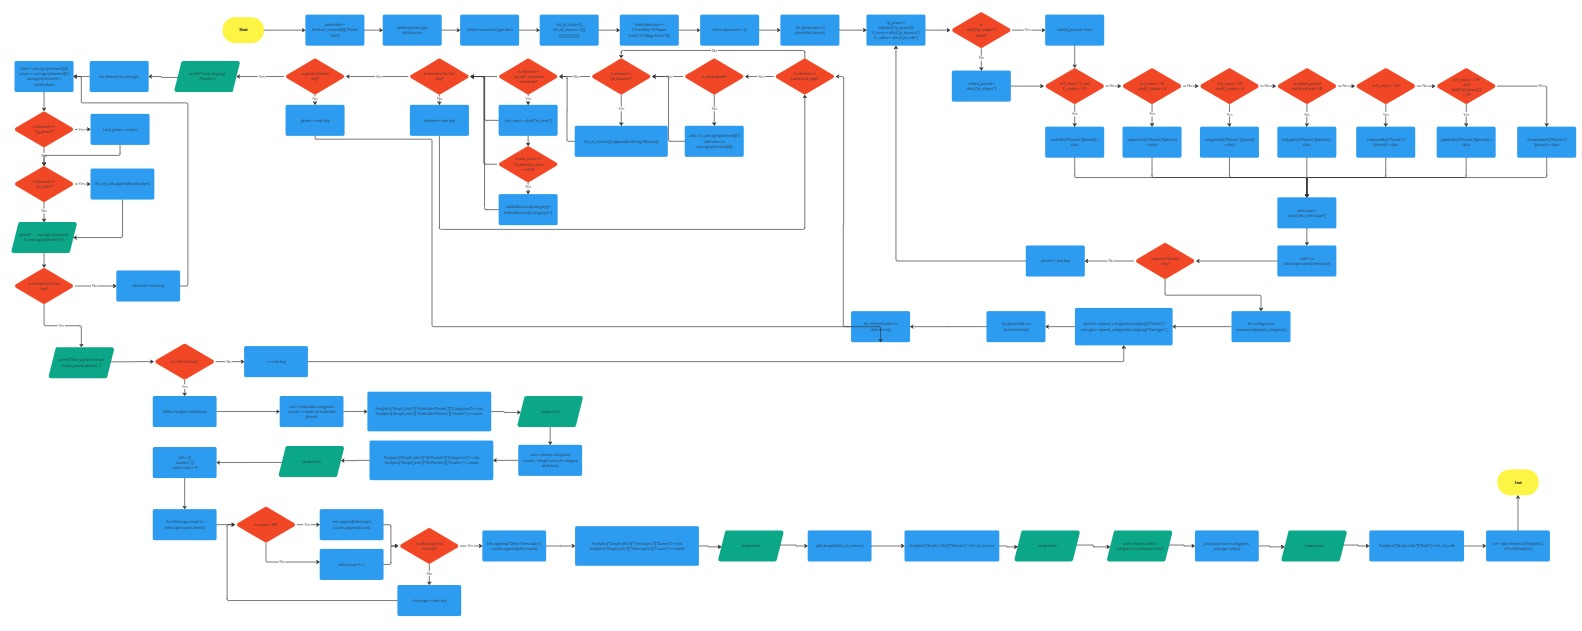
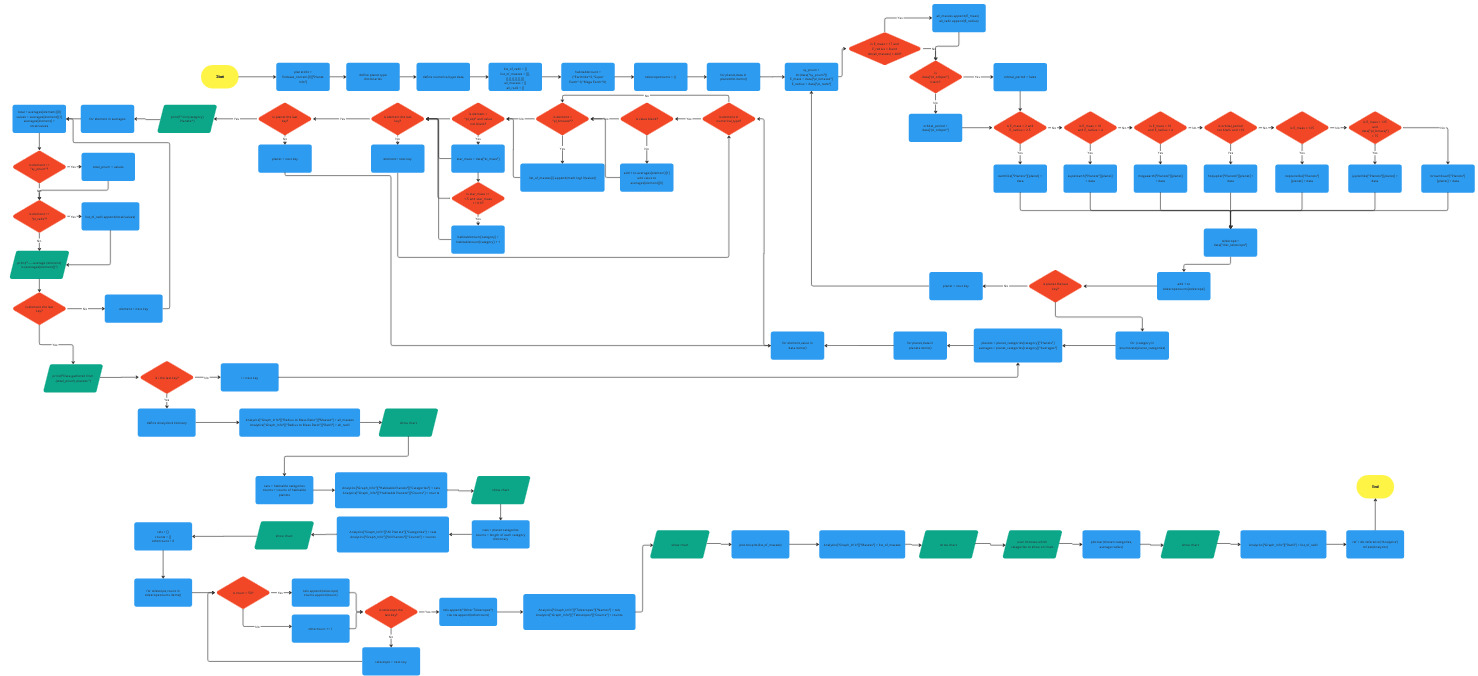
Add files via upload

Changed region(s): [[0.0, 0.0, 1.0, 1.0], [0.249, 0.4818, 0.2801, 0.5119]]

diff --git a/Project/index.html b/Project/index.html
@@ -89,11 +89,14 @@
     <h1>Telescope Chart</h1>
     <h3>This Doughnut graph shows the proportion of the exoplanets in the dataset that were collected by each telescope.</h3>
     <canvas id="TelescopeChart" style="width:100%;max-width:500px"></canvas><br>
+    <h1>Terrestrial Planet Radius to Mass Ratio Chart</h1>
+    <h3>This Scatter plot shows the ratio of mass to radius for terrestrial exoplanets (Earthlike, Super Earth, Mega Earth). A very clear trend is shown indicating that there is a close link between the mass and radius of an exoplanet</h3>
+    <canvas id="TerrestrialRatioChart" style="width:100%;max-width:1000px"></canvas><br>
 
     <!--Information Search-->
     <h1>Analytical Information Search</h1>
     <img src="https://static.vecteezy.com/system/resources/previews/033/170/280/non_2x/magnifier-and-globe-icon-search-for-a-place-on-a-map-or-on-the-globe-icon-the-icon-of-the-magnifying-glass-and-planet-earth-vector.jpg" width="85" height="85"><br>
-    <h3>This section is to further educate on the specifics of these planet types. Each question configuration will provide an accurate answer based off the data in the database.</h3>
+    <h3>This section is to further educate on the specifics of these planet types. Each question configuration will provide an accurate answer based off the data in the database. Average distance, mass and year length of an exoplanet type are all vital information for any astronomer searching for new exoplanets.</h3>
     <h3>Once the desired configuration is made click the Submit Question button to get the answer.</h3>
     <span>How far away is the average </span>
     <select id="distance">
@@ -164,6 +167,8 @@
             let chart_radii = chartinfo["Radii"];
             let telescopes = chartinfo["Telescopes"];
             let planetcounts = chartinfo["All Planets"]["Counts"];
+            let terrestrialradii = chartinfo["Radius to Mass Ratio"]["Radii"];
+            let terrestrialmasses = chartinfo["Radius to Mass Ratio"]["Masses"];
  
             // For Refresh Functionality
             let planet_categories = [];
@@ -206,6 +211,7 @@
             };
             CHART_T(telescopes);
             CHART_P(shownplanetcounts,planet_categories,planet_colours);
+            CHART_MR(terrestrialmasses,terrestrialradii);
         }};
  
     function CHART_R(data,cols) {
@@ -225,6 +231,9 @@
                     }]
                 },
                 options: {
+                    legend: {
+                        display: false
+                    },
                     responsive: true,
                     title: {
                     display: true,
@@ -264,6 +273,33 @@
             }
         });
     }
+
+    function CHART_MR(masses,radii) {
+        let data_amt = masses.length;
+        let data = [];     
+        for (let index = 0;index < data_amt;++index){
+            data.push({x:masses[index],y:radii[index]});
+            ++ index;
+        };
+        
+        new Chart("TerrestrialRatioChart", {
+            type: "scatter",
+            data: {
+                datasets: [{
+                data: data,
+                }]
+            },
+            options: {
+                legend: {
+                        display: false
+                },
+                title: {
+                display: true,
+                text: "Terrestrial Exoplanet Radius to Mass Ratio"
+                }
+            }
+        });
+    }
  
     function CHART_P(data,cats,cols) {
         let Chart_Pcanvas = document.createElement("canvas");
@@ -282,19 +318,14 @@
                     }]
                 },
                 options: {
-                    plugins: {
-                    legend: {
-                            display: false
-                        },
                     title: {
                         display: true,
                         text: "Distribution of Planet Types in Dataset"
-                        },
-                    responsive: true,
                     },
-                    tootltips: {
-                        enabled: false
-                    }
+                    responsive: true,
+                    legend: {
+                        display: false
+                    },
                 }
             })}
         else{
@@ -377,6 +408,11 @@
     canvas#TelescopeChart {
     background-color: rgb(255, 255, 255,0.7 );
     }
+    canvas#TerrestrialRatioChart {
+    background-color: rgb(255, 255, 255,0.7 );
+    }
+    
+
     marquee {
     font-size: 100px;
     }

diff --git a/Project/form.html b/Project/form.html
@@ -219,10 +219,8 @@
         },
         options: {
                 legend: {
-                labels: {
-                    fontColor: "white"
-                    }
-                },
+                            display: false
+                    },
                 responsive: true,
                 title: {
                 display: true,

diff --git a/Project/analytics.py b/Project/analytics.py
@@ -12,7 +12,7 @@ def orderplanets(lst,element):
     return ordered_list
 
 #___ Initialising Firebase ___#
-cred = credentials.Certificate("exoplanet-dataset-firebase-adminsdk-shser-369d5308fe.json")
+cred = credentials.Certificate("exoplanet-dataset-firebase-adminsdk-shser-43e84d2fa9.json")
 firebase_admin.initialize_app(cred, {'databaseURL':'https://exoplanet-dataset-default-rtdb.europe-west1.firebasedatabase.app/'})
 ref = db.reference('/')
 firebase_content = ref.get('/users/Planet Info', None)
@@ -30,7 +30,10 @@ outlier_planets = {"Planets":{},"Averages":{}}
 planet_categories = {"Earthlike":earthlike,"Super Earth":superearth,"Mega Earth":megaearth,"Neptunelike":neptunelike,"Jupiterlike":jupiterlike,"Hot Jupiter":hotjupiter,"Brown Dwarf":browndwarf}
 numerical_type = ["sy_snum","sy_pnum","pl_orbsmax","pl_orbper","pl_rade","pl_radj","pl_bmasse","pl_bmassj","pl_dens","pl_orbeccen","pl_insol","pl_eqt","pl_orbincl","ttv_flag","pl_imppar","pl_orblper","st_teff","st_mass","st_lum","st_logg","ra","dec","sy_dist","sy_vmag","sy_kmag","sy_gaiamag","sy_gaiamagerr1","sy_gaiamagerr2"]
 list_of_radii = []
+all_radii = []
 list_of_masses = [[],[],[],[],[],[],[]]
+all_masses = []
+
 habitablecount = {"Earthlike":0,"Super Earth":0,"Mega Earth":0}
 telescopecounts = {}
 
@@ -40,6 +43,9 @@ for planet,data in planetdict.items():
     sy_pnum = int(data["sy_pnum"])
     E_mass = data["pl_bmasse"]
     E_radius = data["pl_rade"]
+    if E_mass < 17 and E_radius < 8 and len(all_masses) < 400:
+        all_masses.append(E_mass)
+        all_radii.append(E_radius)
     if data.get("pl_orbper"): orbital_period = data["pl_orbper"]
     else: orbital_period = False
     if E_mass < 2 and E_radius < 2.5: earthlike["Planets"][planet] = data
@@ -96,7 +102,17 @@ for i,category in enumerate(planet_categories):
 
 Analytics = {"Graph_Info":{},"Averages":{"Earthlike":earthlike["Averages"],"Super Earth":superearth["Averages"],"Mega Earth":megaearth["Averages"],"Neptunelike":neptunelike["Averages"],"Jupiterlike":jupiterlike["Averages"],"Hot Jupiter":hotjupiter["Averages"],"Brown Dwarf":browndwarf["Averages"]}} #Creating Analytics Dict
 
-#___ Pie Chart of Habitable Planets or Total Planets___#
+#__ Scatter Plot of Radius to Mass __#
+plot.scatter(all_masses,all_radii)
+plot.title('Terrestrial Exoplanet Radius to Mass Ratio')
+plot.xlabel('Planet Mass (Earth masses)')
+plot.ylabel('Planet Radius (Earth Radii)')
+Analytics["Graph_Info"]["Radius to Mass Ratio"] = {}
+Analytics["Graph_Info"]["Radius to Mass Ratio"]["Masses"] = all_masses
+Analytics["Graph_Info"]["Radius to Mass Ratio"]["Radii"] = all_radii
+plot.show()
+
+#___ Pie Chart of Habitable Planets and Total Planets___#
 cats = []
 counts = []
 for category,count in habitablecount.items():
@@ -160,6 +176,7 @@ plot.xlabel('Planet Types')
 plot.ylabel('Average Earth Radii')
 plot.show()
 Analytics["Graph_Info"]["Radii"] = list_of_radii
+
 
 #___ Transferring Data to FireBase ___#
 ref = db.reference('/Analytics')
